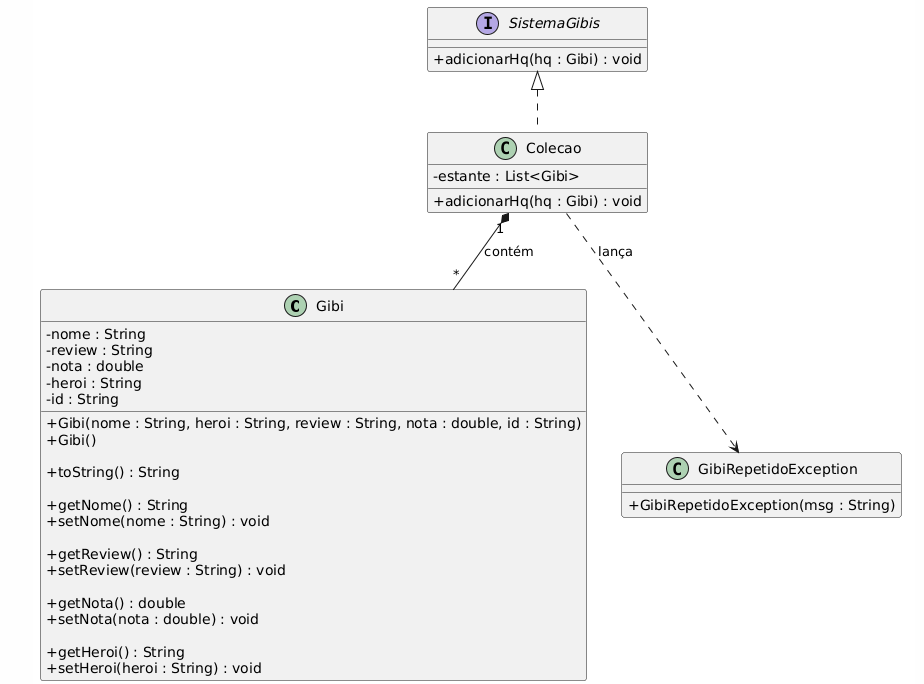
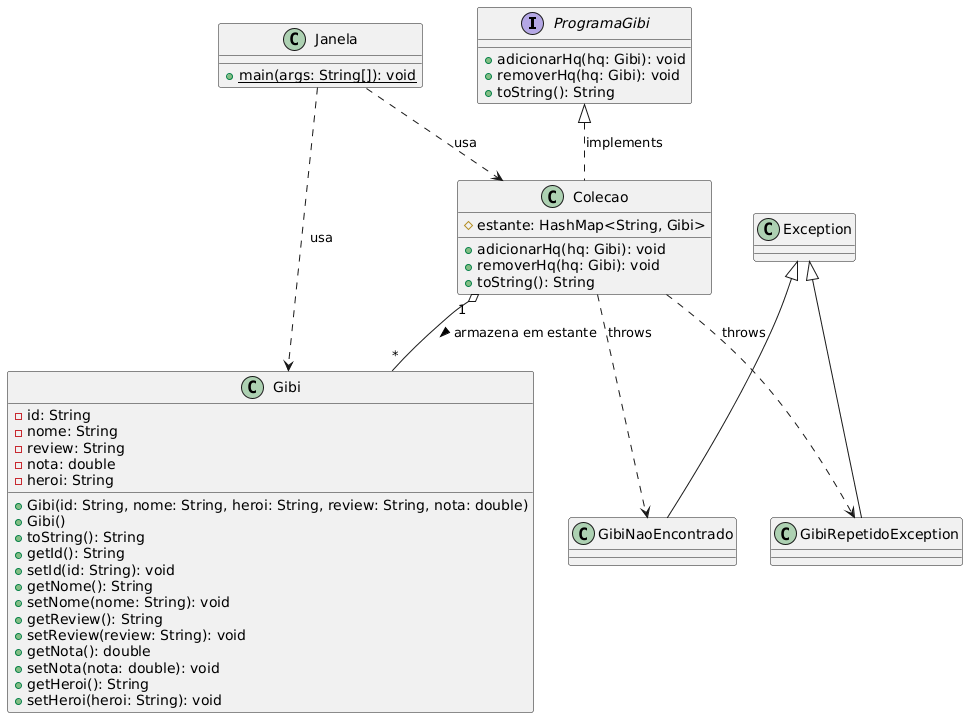
corrige lógica do HashMap por ID e ajusta renderização do Swing

diff --git a/src/main/java/ufpb/br/dcx/saraiva/poo/Colecao.java b/src/main/java/ufpb/br/dcx/saraiva/poo/Colecao.java
@@ -1,46 +1,30 @@
 package ufpb.br.dcx.saraiva.poo;
 
-import javax.swing.*;
-import java.util.ArrayList;
 import java.util.HashMap;
-import java.util.List;
 
-public class Colecao implements ProgramaGibi{
-    HashMap<String, Gibi> estante = new HashMap<>();
-    String id;
+public class Colecao implements ProgramaGibi {
+    protected HashMap<String, Gibi> estante = new HashMap<>();
 
     @Override
-    public void adicionarHq(Gibi hq){
-        if (estante.containsValue(hq)){
-            GibiRepetidoException mensagem = new GibiRepetidoException("Gibi repido.");
-            System.out.println(mensagem.getMessage());
-            } else {
-            estante.put(id, hq);
+    public void adicionarHq(Gibi hq) throws GibiRepetidoException {
+        if (estante.containsKey(hq.getId())) {
+            throw new GibiRepetidoException("Gibi repetido.");
+        } else {
+            estante.put(hq.getId(), hq);
         }
+    }
 
+    @Override
+    public void removerHq(Gibi hq) throws GibiNaoEncontrado {
+        if (estante.containsKey(hq.getId())) {
+            estante.remove(hq.getId());
+        } else {
+            throw new GibiNaoEncontrado("Gibi não foi encontrado.");
         }
-        @Override
-        public void removerHq(Gibi hq){
-        if (estante.containsValue(hq)){
-            estante.remove(id, hq);
-        } else{ GibiNaoEncontrado mensagem = new GibiNaoEncontrado("Gibi não foi encontrado.");
-
-        }
-
-        }
+    }
 
     @Override
     public String toString() {
-        return "Colecao" + estante ;
+        return "Colecao: " + estante;
     }
-
-    public void filtarPorHeroi(String Heroi){
-
-
-
-
-
-        }
-    }
-
-
+}

diff --git a/src/main/java/ufpb/br/dcx/saraiva/poo/Janela.java b/src/main/java/ufpb/br/dcx/saraiva/poo/Janela.java
@@ -5,31 +5,30 @@ import java.awt.event.ActionEvent;
 import java.awt.event.ActionListener;
 
 public class Janela {
-    public static void main(String[] agrs) {
+    public static void main(String[] args) {
         JFrame window = new JFrame("Home");
-        JOptionPane lay = new JOptionPane();
         window.setDefaultCloseOperation(WindowConstants.EXIT_ON_CLOSE);
         window.setSize(300, 300);
 
         Colecao cole = new Colecao();
-        Gibi abobra = new Gibi("Reino do ontem","superman", "batma é bom dimai", 9);
-        cole.adicionarHq(abobra);
+        Gibi abobra = new Gibi("1", "Reino do ontem", "superman", "batman é bom demais", 9);
 
+        try {
+            cole.adicionarHq(abobra);
+        } catch (GibiRepetidoException e) {
+            JOptionPane.showMessageDialog(window, e.getMessage());
+        }
 
-        window.setVisible(true);
-
-        JButton botao1 = new JButton("mostar hqs");
+        JButton botao1 = new JButton("mostrar hqs");
 
         botao1.addActionListener(new ActionListener() {
             @Override
             public void actionPerformed(ActionEvent e) {
-                System.out.println(cole.toString());
+                JOptionPane.showMessageDialog(window, cole.toString());
             }
         });
-        window.setVisible(true);
+
         window.add(botao1);
-
-
+        window.setVisible(true);
     }
-
 }

diff --git a/src/main/java/ufpb/br/dcx/saraiva/poo/Gibi.java b/src/main/java/ufpb/br/dcx/saraiva/poo/Gibi.java
@@ -1,30 +1,39 @@
 package ufpb.br.dcx.saraiva.poo;
 
 public class Gibi {
+    private String id;
     private String nome;
     private String review;
     private double nota;
     private String heroi;
 
-    public Gibi(String nome, String heroi, String review, double nota){
+    public Gibi(String id, String nome, String heroi, String review, double nota){
+        this.id = id;
         this.nome = nome;
         this.review = review;
         this.nota = nota;
         this.heroi = heroi;
     }
+
     public Gibi(){
+        this.id = "0";
         this.nome = "Sem nome";
         this.review = "Vazio";
         this.nota = 0;
-        this.heroi = "Não defenido";
+        this.heroi = "Não definido";
     }
 
     @Override
     public String toString() {
-        return "Gibi "+ nome + '\'' +
-                " Review: " + review + '\'' +
-                " Nota: " + nota +
-                " Heroi: " + heroi;
+        return "ID: " + id + " | Gibi " + nome + " | Review: " + review + " | Nota: " + nota + " | Heroi: " + heroi;
+    }
+
+    public String getId() {
+        return id;
+    }
+
+    public void setId(String id) {
+        this.id = id;
     }
 
     public String getNome() {

diff --git a/src/main/java/ufpb/br/dcx/saraiva/poo/GibiNaoEncontrado.java b/src/main/java/ufpb/br/dcx/saraiva/poo/GibiNaoEncontrado.java
@@ -1,0 +1,7 @@
+package ufpb.br.dcx.saraiva.poo;
+
+public class GibiNaoEncontrado extends Exception {
+    public GibiNaoEncontrado(String msg) {
+        super(msg);
+    }
+}

diff --git a/src/main/java/ufpb/br/dcx/saraiva/poo/ProgramaGibi.java b/src/main/java/ufpb/br/dcx/saraiva/poo/ProgramaGibi.java
@@ -1,8 +1,7 @@
 package ufpb.br.dcx.saraiva.poo;
 
 public interface ProgramaGibi {
-    void adicionarHq(Gibi hq);
-    void removerHq(Gibi hq);
-
-
+    void adicionarHq(Gibi hq) throws GibiRepetidoException;
+    void removerHq(Gibi hq) throws GibiNaoEncontrado;
+    String toString();
 }